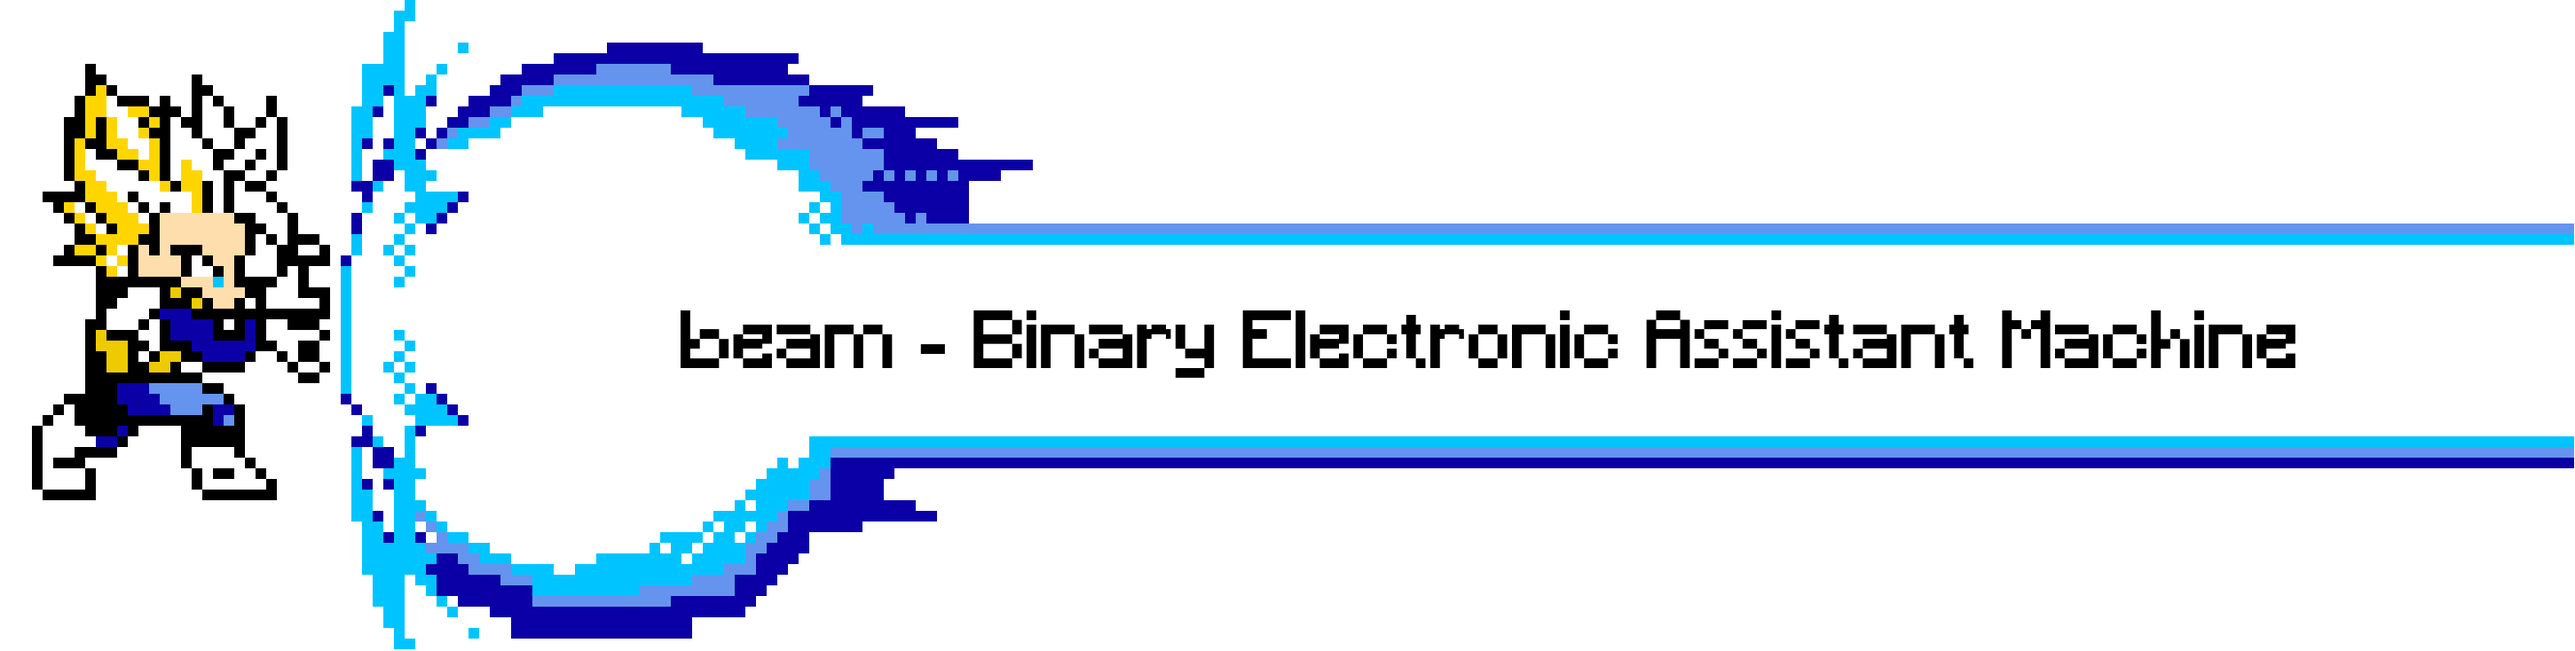
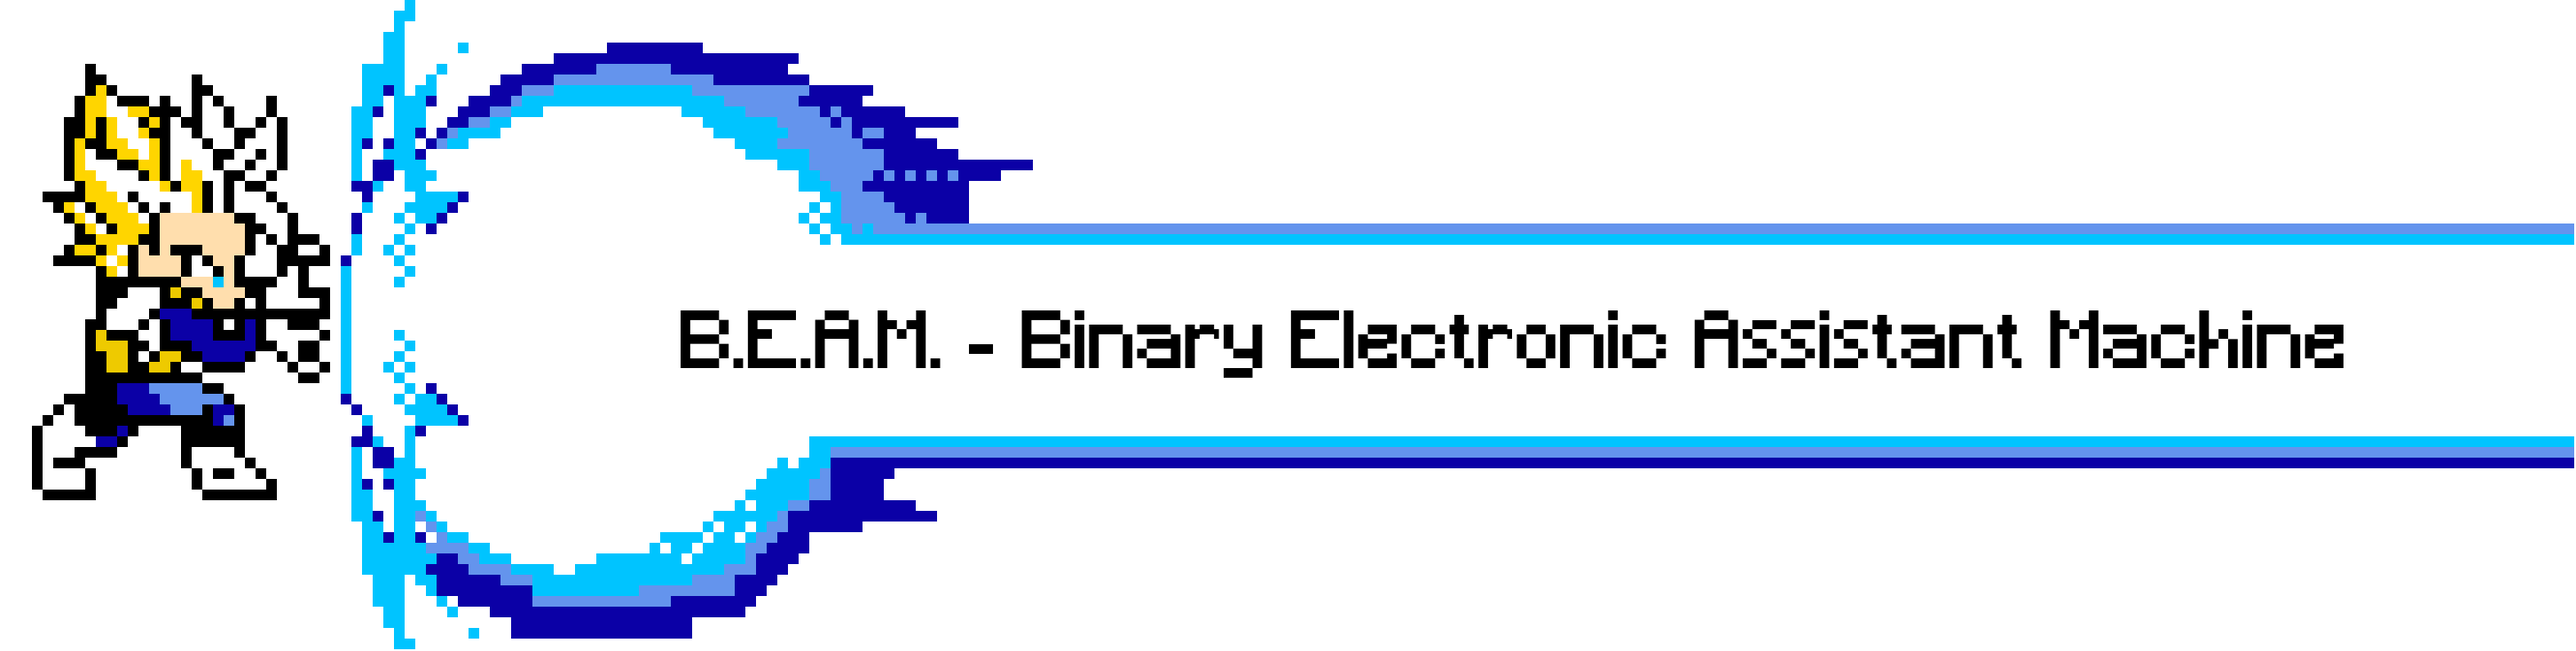
docs: experiment different case naming

Changed region(s): [[0.2481, 0.4796, 0.9304, 0.5995]]

diff --git a/README.md b/README.md
@@ -2,7 +2,7 @@
 
 ![beam](docs/images/vegeta_beam_text.png)
 
-# beam
+# B.E.A.M.
 
 ![test workflow][test-badge]
 
@@ -10,7 +10,7 @@
 
 ## Overview
 
-`beam` will enhance your GitHub pull requests with IssueOps capabilities. You will ask `beam` to perform several tasks,
+B.E.A.M. or `beam` for short will enhance your GitHub pull requests with IssueOps capabilities. You will ask `beam` to perform several tasks,
 by commenting your pull requests with command-like syntax inputs.
 
 The following task are available:
